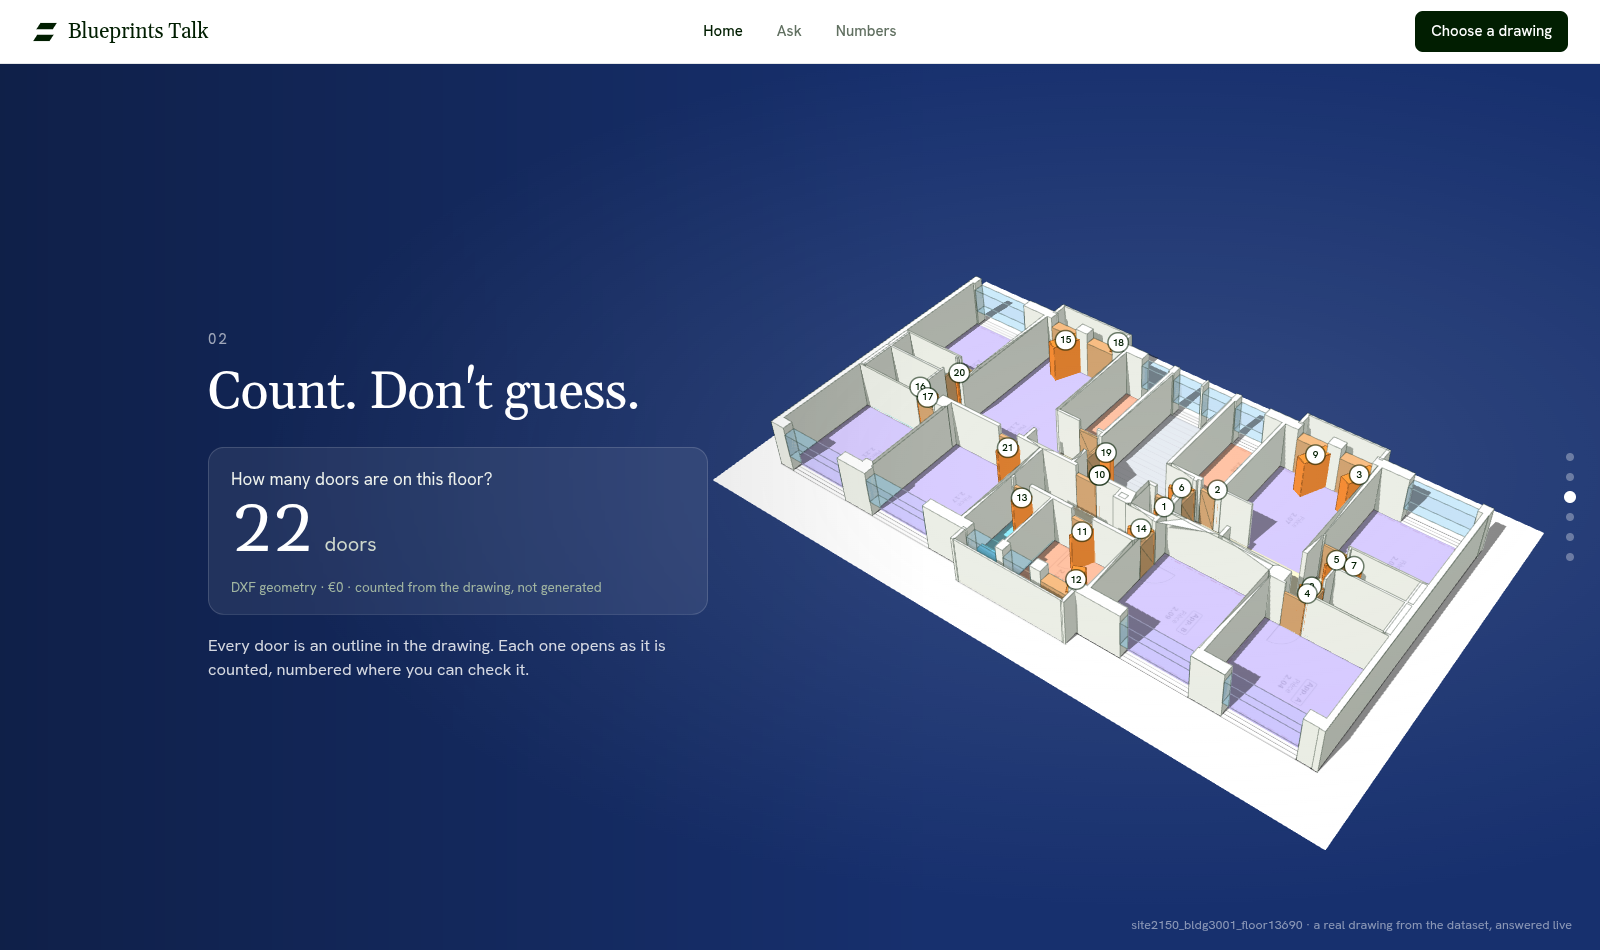
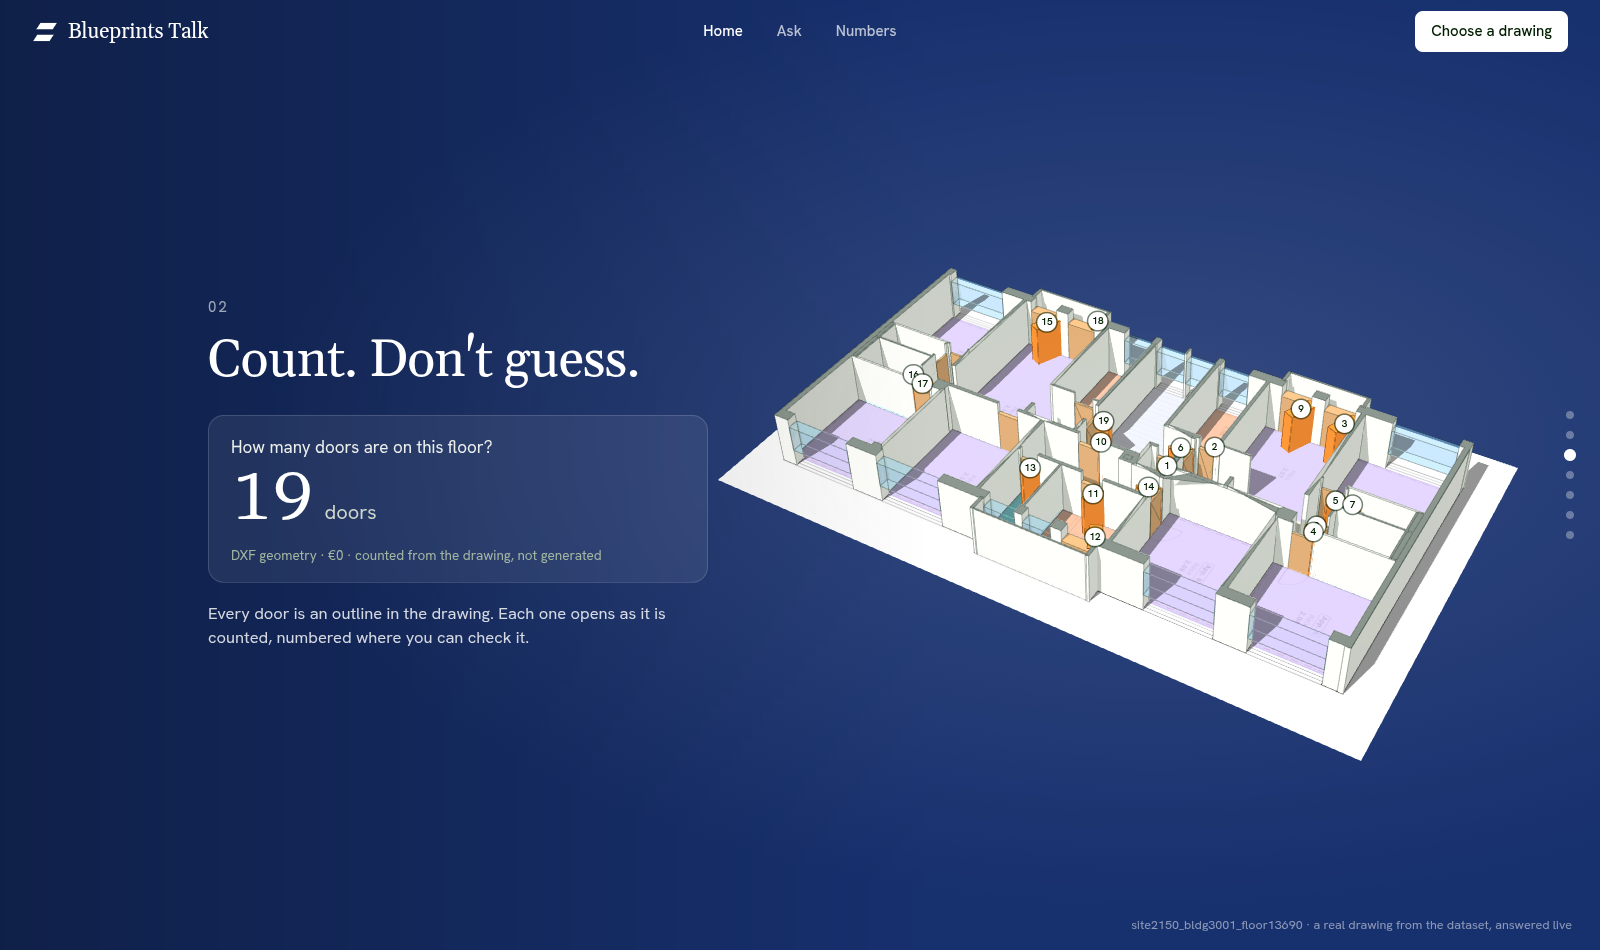
The story fills the screen: the top bar floats over it, and the model keeps its long side in view
The top bar is transparent over the stage and turns solid once the story is past. The
camera stays on the model's long side through the later chapters, further back and a
little higher, under brighter light. The Numbers page opens on colour.

diff --git a/web/src/Story.tsx b/web/src/Story.tsx
@@ -71,20 +71,27 @@ export function Story({ stats, onOpen, onBrowse, onBring, onTalk, canTalk }: Pro
       const box = el.getBoundingClientRect();
       const span = box.height - window.innerHeight;
       setP(span > 0 ? clamp(-box.top / span) : 0);
+      document.documentElement.toggleAttribute("data-on-stage", box.bottom > 72);  // the top bar floats over the stage
     };
     const onScroll = () => { if (!frame) frame = requestAnimationFrame(read); };
     read();
     window.addEventListener("scroll", onScroll, { passive: true });
     window.addEventListener("resize", onScroll);
-    return () => { window.removeEventListener("scroll", onScroll); window.removeEventListener("resize", onScroll); cancelAnimationFrame(frame); };
+    return () => {
+      window.removeEventListener("scroll", onScroll);
+      window.removeEventListener("resize", onScroll);
+      cancelAnimationFrame(frame);
+      document.documentElement.removeAttribute("data-on-stage");
+    };
   }, []);
 
   const chapter = Math.max(0, AT.findIndex((start, i) => p >= start && p < AT[i + 1]));
   const direction: Direction = useMemo(() => ({
     rise: smooth(0.06, 0.23, p),
-    tilt: 1.5 - 0.88 * smooth(0.04, 0.26, p),
-    turn: Math.PI / 2 + 0.55 * smooth(0.07, 0.29, p) + 1.3 * linear(0.26, 1, p),
-    back: 1.2 - 0.06 * smooth(0.09, 0.26, p) + 0.1 * smooth(0.76, 1, p),
+    tilt: 1.5 - 0.88 * smooth(0.04, 0.26, p) + 0.14 * smooth(0.7, 0.92, p),
+    // From square-on over the long side round to its far corner: the long side stays in view throughout.
+    turn: Math.PI / 2 + 0.5 * smooth(0.07, 0.29, p) + 0.72 * linear(0.26, 1, p),
+    back: 1.2 + 0.1 * smooth(0.2, 0.32, p),
     sway: 0.1 * (1 - smooth(0.01, 0.07, p)),  // before any scroll the walls breathe: it is a model, not a picture
   }), [p]);
 
@@ -95,7 +102,7 @@ export function Story({ stats, onOpen, onBrowse, onBring, onTalk, canTalk }: Pro
     const el = section.current;
     if (!el) return;
     const span = el.getBoundingClientRect().height - window.innerHeight;
-    const from = window.scrollY, to = el.offsetTop + span - 64;
+    const from = window.scrollY, to = el.offsetTop + span;
     const duration = Math.max(4000, 42000 * ((to - from) / span));
     const began = performance.now();
     let frame = 0;
@@ -150,7 +157,7 @@ export function Story({ stats, onOpen, onBrowse, onBring, onTalk, canTalk }: Pro
     const el = section.current;
     if (!el) return;
     const span = el.getBoundingClientRect().height - window.innerHeight;
-    window.scrollTo({ top: el.offsetTop + span * (AT[to] + 0.012) - 64, behavior: "smooth" });
+    window.scrollTo({ top: el.offsetTop + span * (AT[to] + 0.012), behavior: "smooth" });
   };
 
   return (

diff --git a/web/src/styles.css b/web/src/styles.css
@@ -522,7 +522,7 @@ h1, h2 { font-family: var(--serif); font-weight: 400; letter-spacing: -0.015em; 
 /* ---------------------------------------------------------------- the story
    One pinned stage; the page's scroll directs the model and turns the chapters. */
 .story { position: relative; }
-.story-pin { position: sticky; top: 64px; height: calc(100vh - 64px); min-height: 600px; overflow: hidden; color: #f4f6f3;
+.story-pin { position: sticky; top: 0; height: 100vh; min-height: 600px; overflow: hidden; color: #f4f6f3;
   background: var(--tone); transition: background-color 0.9s ease; }
 .story-pin.tone-0 { --tone: #0a2c10; }
 .story-pin.tone-1 { --tone: #0e3a2f; }
@@ -670,3 +670,24 @@ h1, h2 { font-family: var(--serif); font-weight: 400; letter-spacing: -0.015em; 
 .example:nth-child(even) .thumb img { transform: rotate(1.6deg); }
 .example:hover .thumb { box-shadow: none; }
 .example:hover .thumb img { transform: rotate(0deg) scale(1.05); }
+
+/* On the landing page the top bar floats over the stage, and turns solid once the story is past. */
+.app.page-home { grid-template-rows: 0 minmax(0, 1fr); }
+.app.page-home .top { position: fixed; left: 0; right: 0; height: 64px; transition: background-color 0.35s, border-color 0.35s, color 0.35s; }
+html[data-on-stage] .app.page-home .top { background: transparent; border-bottom-color: transparent; }
+html[data-on-stage] .app.page-home .top .brand span { color: #fff; }
+html[data-on-stage] .app.page-home .top .brand svg { fill: #fff; }
+html[data-on-stage] .app.page-home .top nav button { color: rgb(255 255 255 / 0.7); }
+html[data-on-stage] .app.page-home .top nav button:hover, html[data-on-stage] .app.page-home .top nav button.on { color: #fff; }
+html[data-on-stage] .app.page-home .top .primary { background: #fff; color: var(--ink); }
+html[data-on-stage] .app.page-home .top .ghost { color: rgb(255 255 255 / 0.8); }
+.home-rest { padding-top: 110px; }
+
+/* The Numbers page opens on colour, like the story's last chapter */
+.numbers .n-page { padding-top: 0; }
+.n-head { margin: 0 calc(50% - 50vw) 8px; padding: 84px calc(50vw - 50% ) 150px; background: linear-gradient(160deg, #17306e 0%, #10214f 100%); color: #fff; }
+.n-head h1 { color: #fff; }
+.n-head p { color: rgb(255 255 255 / 0.8); }
+.n-head code { background: rgb(255 255 255 / 0.16); color: #fff; }
+.n-tiles { margin-top: -118px; background: linear-gradient(150deg, #14702a 0%, #0b4a1a 75%); box-shadow: 0 30px 60px -30px rgb(11 74 26 / 0.6); }
+.numbers { overflow-x: clip; }

diff --git a/web/src/Viewer3D.tsx b/web/src/Viewer3D.tsx
@@ -108,7 +108,7 @@ const PAPER = {
 const NIGHT: typeof PAPER = {
   ...PAPER, edge: 0x0c1f0e, edgeOpacity: 0.34, table: 0x174a1e, rim: 0x2c6a34,
   count: new THREE.Color(0xf07a14), area: new THREE.Color(0xf0903f), sheet: "#f4f6f1",
-  sky: 0xf2f6f2, bounce: 0x2c5a31, ambient: 2.0, sun: 2.7, fill: 0.42, shadow: 0.5,
+  sky: 0xffffff, bounce: 0x8fa894, ambient: 2.35, sun: 2.9, fill: 0.5, shadow: 0.46,
 };
 // A painted model: white walls, and one clear colour for each kind of thing.
 const FACE: Record<string, number> = {

diff --git a/README.md b/README.md
@@ -51,7 +51,7 @@ The vision model in these runs is Gemini 4 Carbon at low thinking. Alone, it see
 
 ![The landing page: a real plan stands up as you scroll, and its doors open as they are counted](docs/screenshots/story-doors.png)
 
-The landing page is a story told by scrolling. A real drawing from the dataset lies flat, stands up into a painted model, opens its doors as they are counted and adds up an apartment's rooms, on a background that changes colour with each chapter. Every figure in it is the engine's answer to a real question, asked when the page loads.
+The landing page is a story told by scrolling. A real drawing from the dataset lies flat, stands up into a painted model, opens its doors as they are counted and adds up an apartment's rooms; then a scan appears and Gemini's boxes are drawn on it one by one. The background changes colour with each chapter, and the story ends on the three states and the measured results. Every figure in it is the engine's answer to a real question, asked when the page loads. "Play the story" scrolls it by itself at a steady pace, for showing or filming it.
 
 ![Thirty-two doors marked on the plan and in the model raised from it, Verified](docs/screenshots/doors-verified.png)
 
